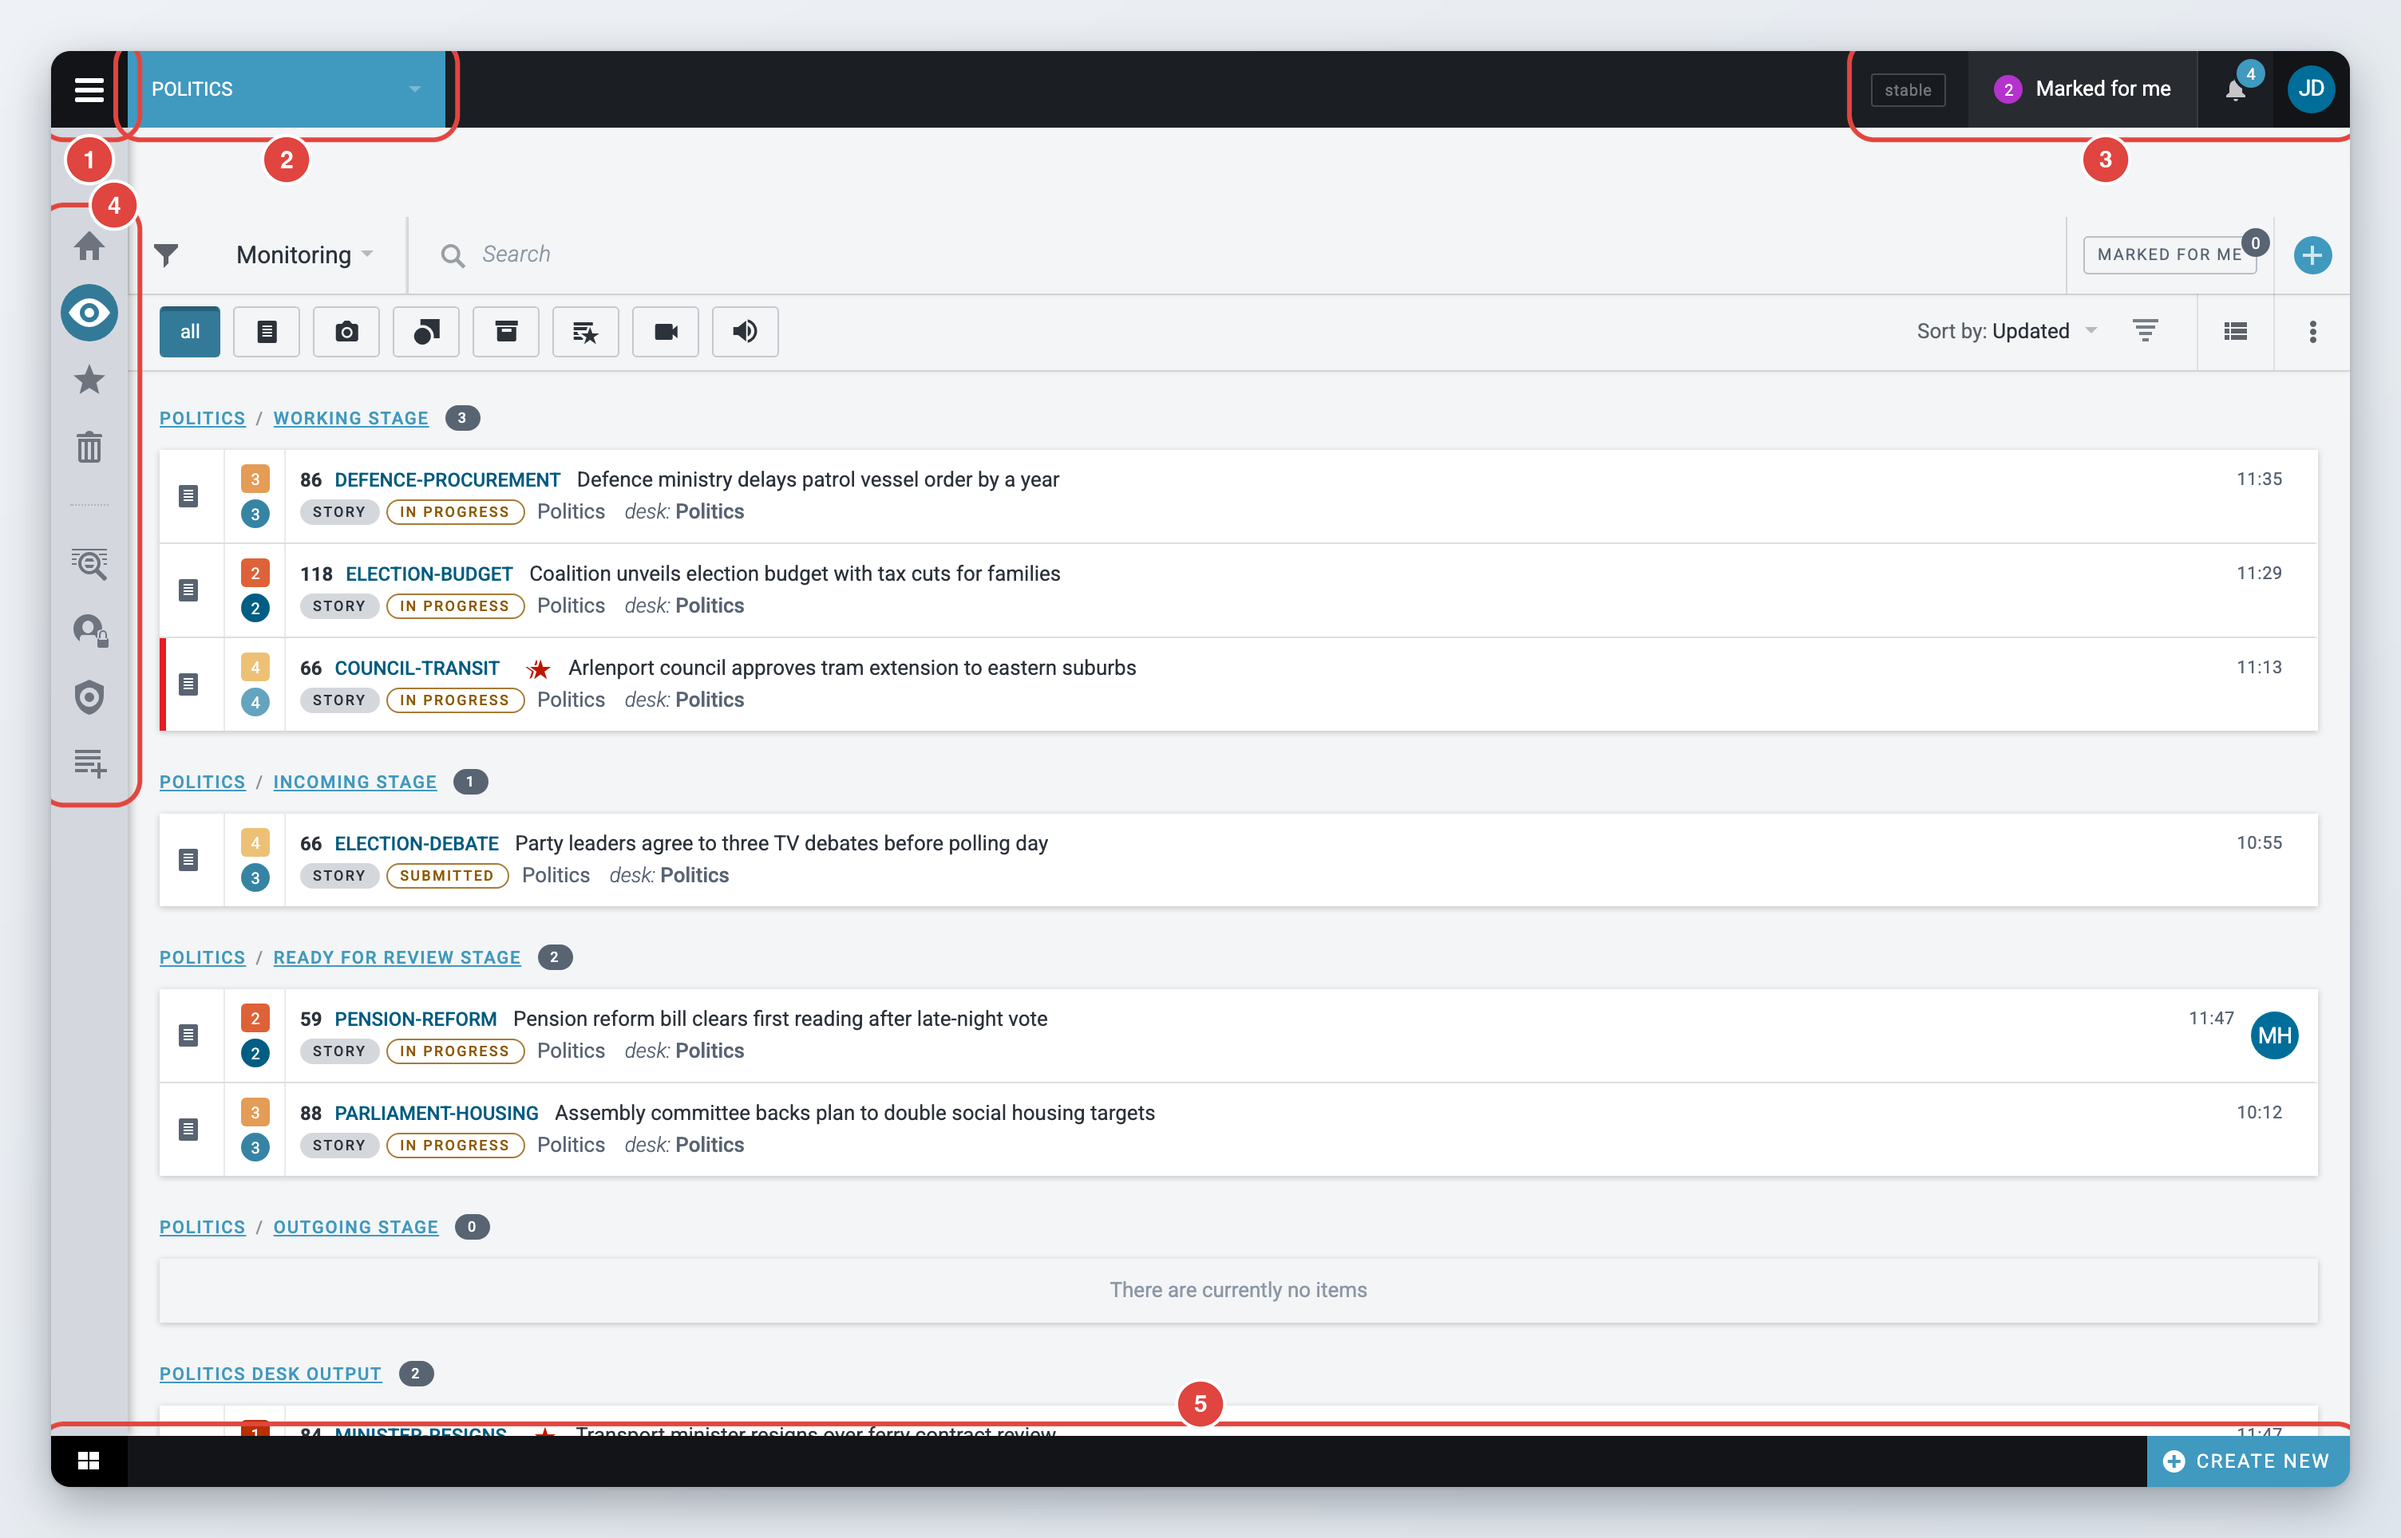
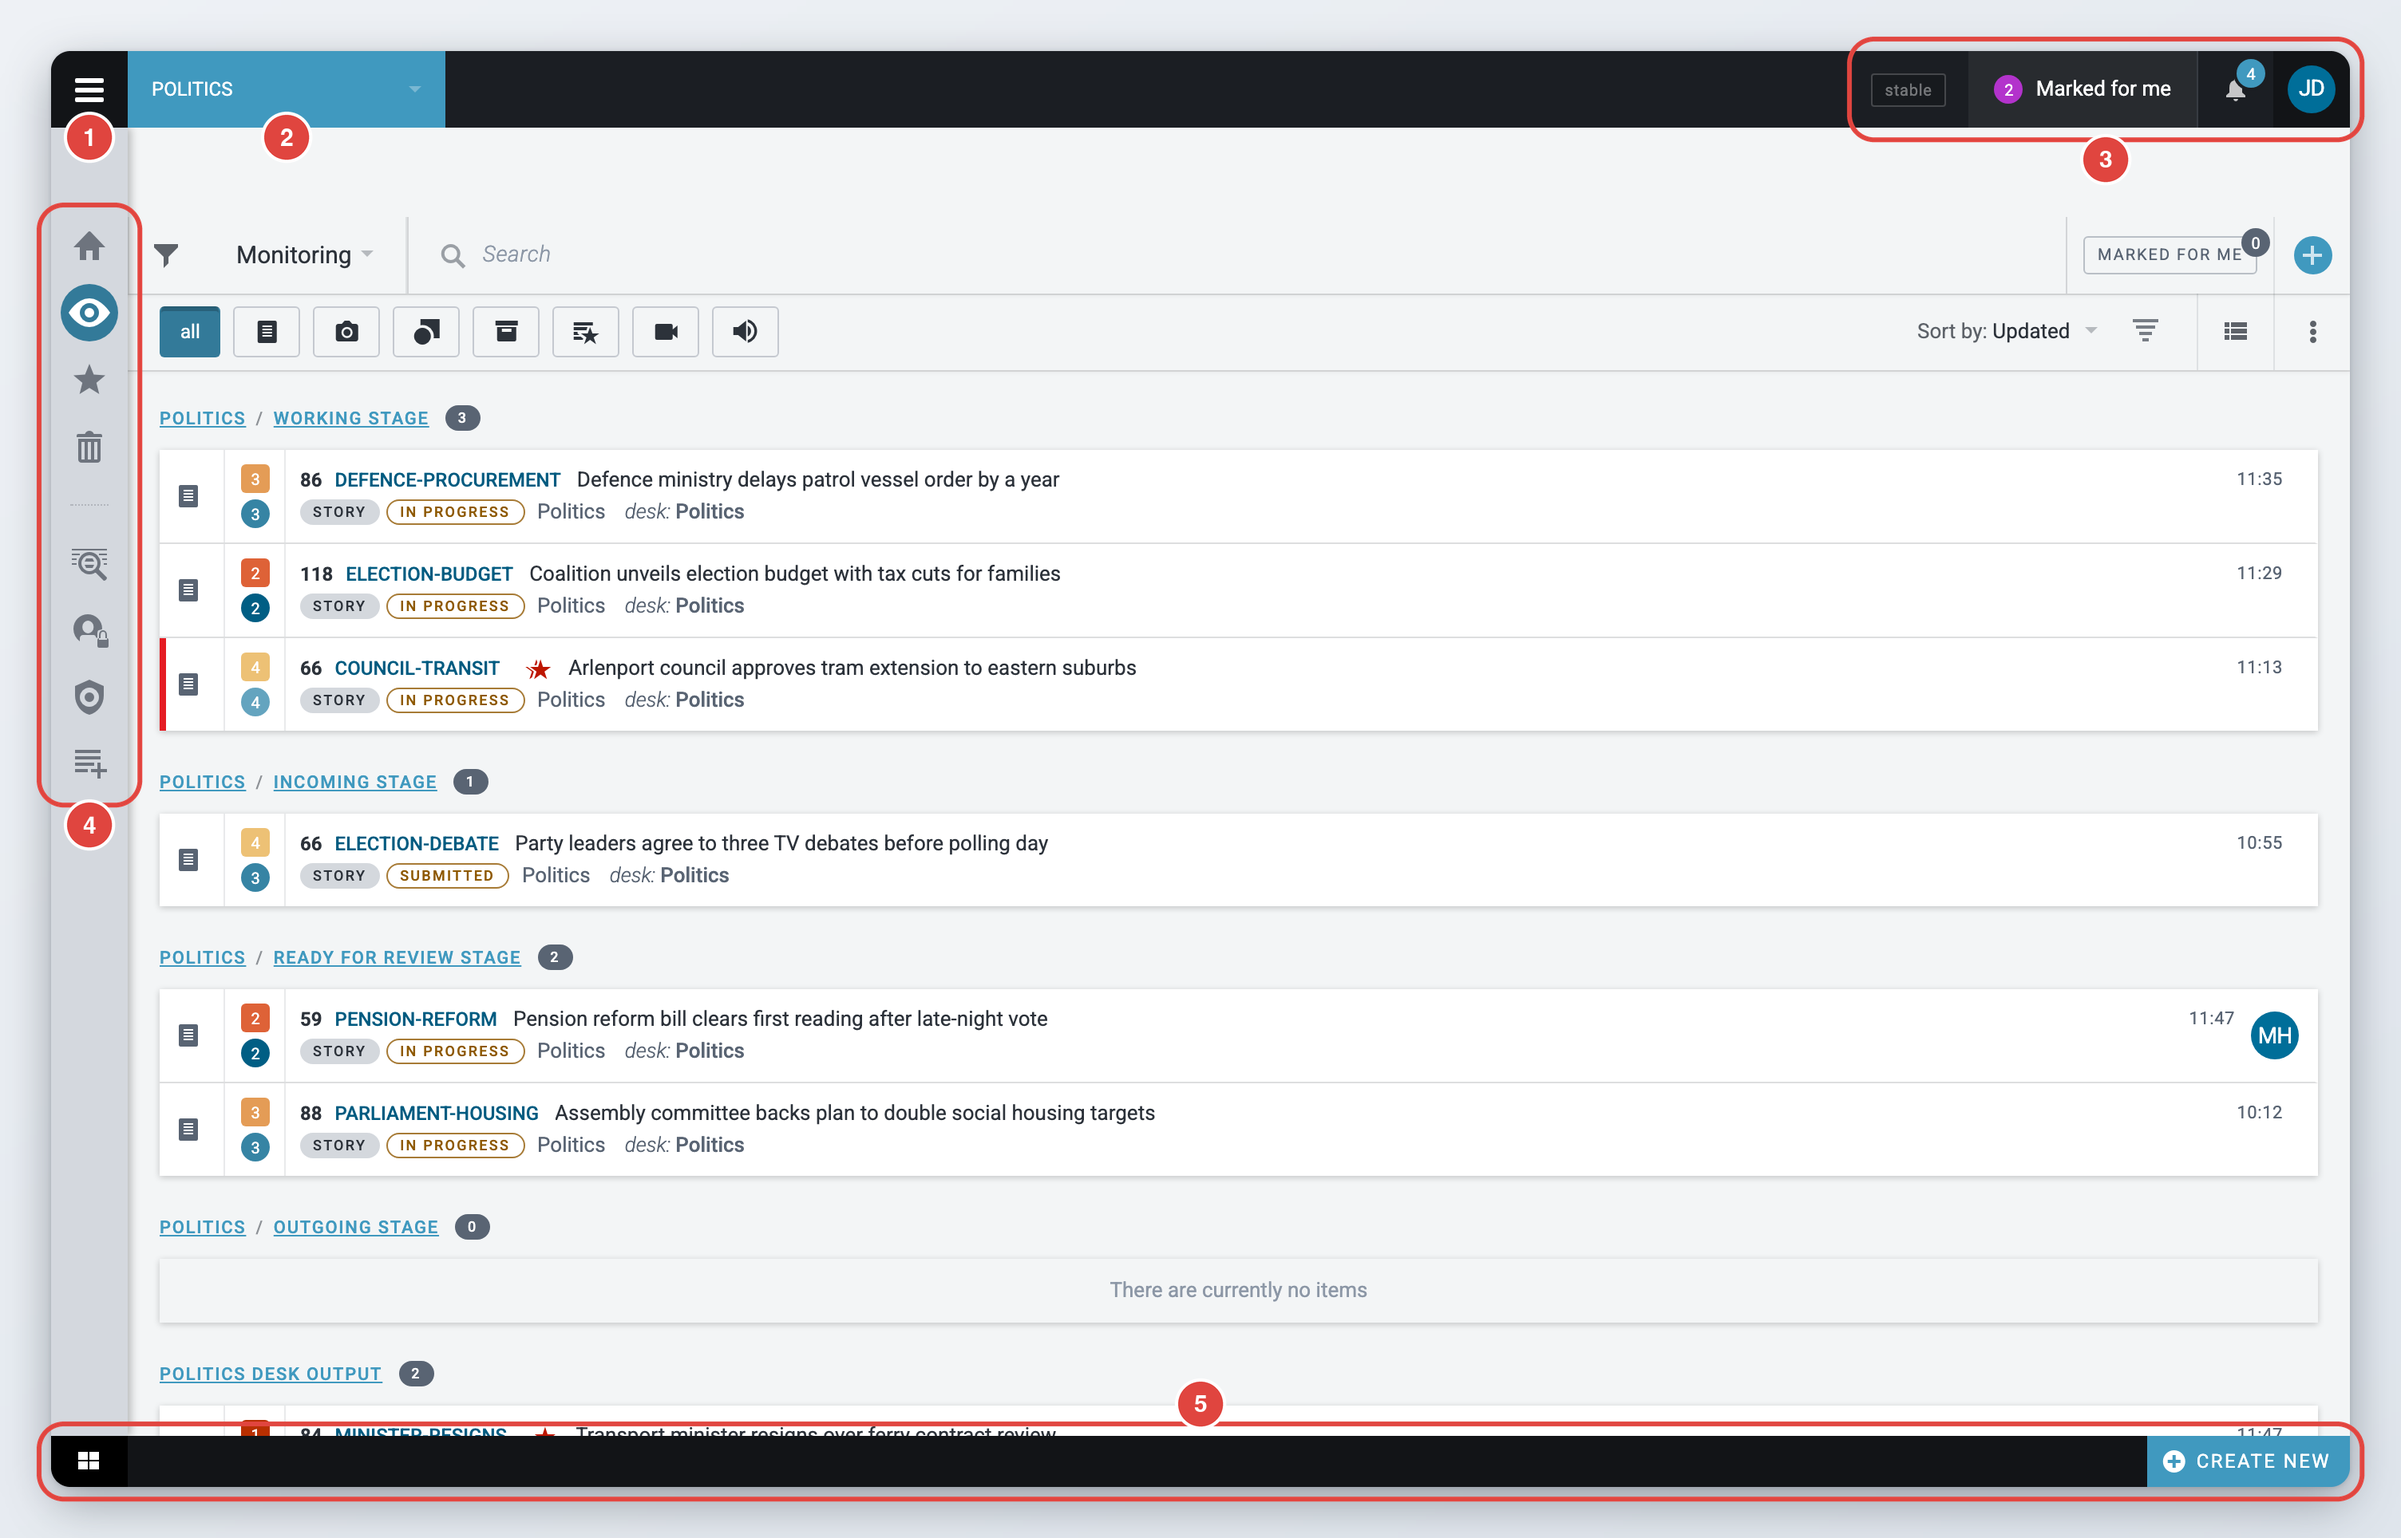
[SDESK-8023] Mix badges and callouts on the screen overview figure
Five outlines around whole screen regions made the figure busy. The two small controls now get a badge only and the three regions keep a callout. The capture script accepts one highlight style per item and a badge anchor at a fraction of the control's box with an offset, and warns when the crop cuts through a highlighted control.

Changed region(s): [[0.0312, 0.9647, 0.9688, 0.9959], [0.0312, 0.0311, 0.1875, 0.1556], [0.0312, 0.529, 0.0625, 0.5602]]

diff --git a/tools/screenshots/CAPTURE.md b/tools/screenshots/CAPTURE.md
@@ -82,9 +82,9 @@ Extensions understood by the script:
 
 - `padding`: CSS pixels added around element crops, default 16. The padded box is clamped to the viewport.
 - `mask`: array of selectors to paint over (for example avatars or timestamps). `maskColor` changes the colour, default `#D9D9D9`.
-- `highlightStyle`: `"outline"`, `"badge"` or `"callout"` (an outline plus a numbered badge on the same box, written as two entries). Without it, callout is used when the highlight text mentions callouts, badge when it mentions numbers or badges. Badge labels are the 1-based position of the item in the highlight list, so they line up with numbered lists on the page even when an item could not be found.
+- `highlightStyle`: `"outline"`, `"badge"` or `"callout"` (an outline plus a numbered badge on the same box, written as two entries). An array gives one style per highlight item, for a figure that mixes plain badges on small controls with callouts around larger areas. Without it, callout is used when the highlight text mentions callouts, badge when it mentions numbers or badges. Badge labels are the 1-based position of the item in the highlight list, so they line up with numbered lists on the page even when an item could not be found.
 - `appConfig`: object merged into the client config through the `TEST_APP_CONFIG` localStorage key, which `scripts/init.ts` reads at startup. This is how to get config the e2e client does not have, for example `{"list": {"compactView": {"firstLine": ["headline", "slugline"], "secondLine": []}}}` or `{"features": {"customAuthoringTopbar": {"toDesk": true, "publish": true}}}`. It is removed again for entries that do not set it.
-- `badgeAnchor`: where badges go. `"above"` or `"below"` centres each badge just outside its control (written as the badge's `center` in the highlights JSON, which style.py honours); `"rows"` puts badges for controls in the upper half of the crop above them and the rest below, for two-row toolbars; `"top-right"` moves the default corner to the element's top-right. It applies to the badge of a `callout` as well (the outline keeps the full box). An array sets one anchor per highlight item in highlight order, `null` keeping the default corner, for example `["below", "below", "top-right", null]`. The script warns when a badge overlaps another badge or a highlighted control. Leave room in the crop (for example `expand`) so badges outside the controls stay in frame; when the controls sit flush against other UI, an `evaluate` step that adds a margin (see `icons-and-user-experience/top-bar` or `navigation/screen-overview`) opens an empty band for the badges.
+- `badgeAnchor`: where badges go. `"above"` or `"below"` centres each badge just outside its control (written as the badge's `center` in the highlights JSON, which style.py honours); `"rows"` puts badges for controls in the upper half of the crop above them and the rest below, for two-row toolbars; `{"at": [fx, fy], "offset": [dx, dy]}` centres it at a fraction of the element's box (`[0.5, 1]` is the middle of the bottom edge) moved by an offset in CSS px; `"top-right"` moves the default corner to the element's top-right. It applies to the badge of a `callout` as well (the outline keeps the full box). An array sets one anchor per highlight item in highlight order, `null` keeping the default corner, for example `["below", "below", "top-right", null]`. The script warns when a badge overlaps another badge or a highlighted control. Leave room in the crop (for example `expand`) so badges outside the controls stay in frame; when the controls sit flush against other UI, an `evaluate` step that adds a margin (see `icons-and-user-experience/top-bar` or `navigation/screen-overview`) opens an empty band for the badges.
 - `clearLocalStorage`: array of key prefixes to remove before loading the route, for example `["sd-filter"]`.
 - `restore`: `true` or a snapshot name. Restores the database before this shot and logs every user in again (a restore invalidates the sessions).
 - `cleanup`: steps (same grammar) run after the shot, for example to switch the monitoring view back to List view. Failures there are warnings only.
